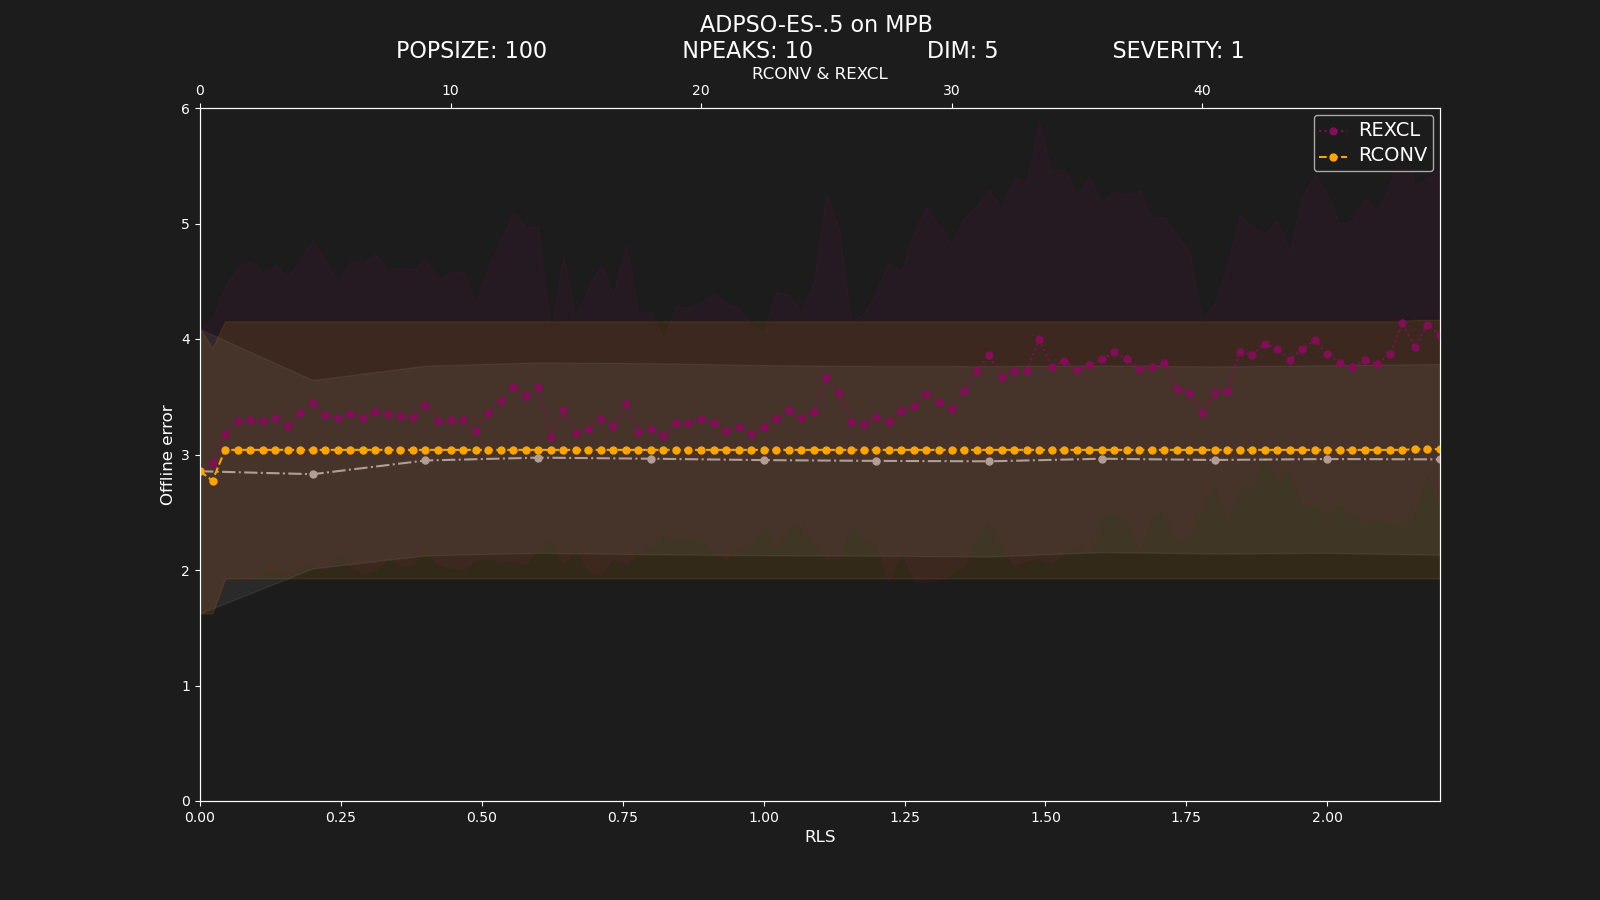
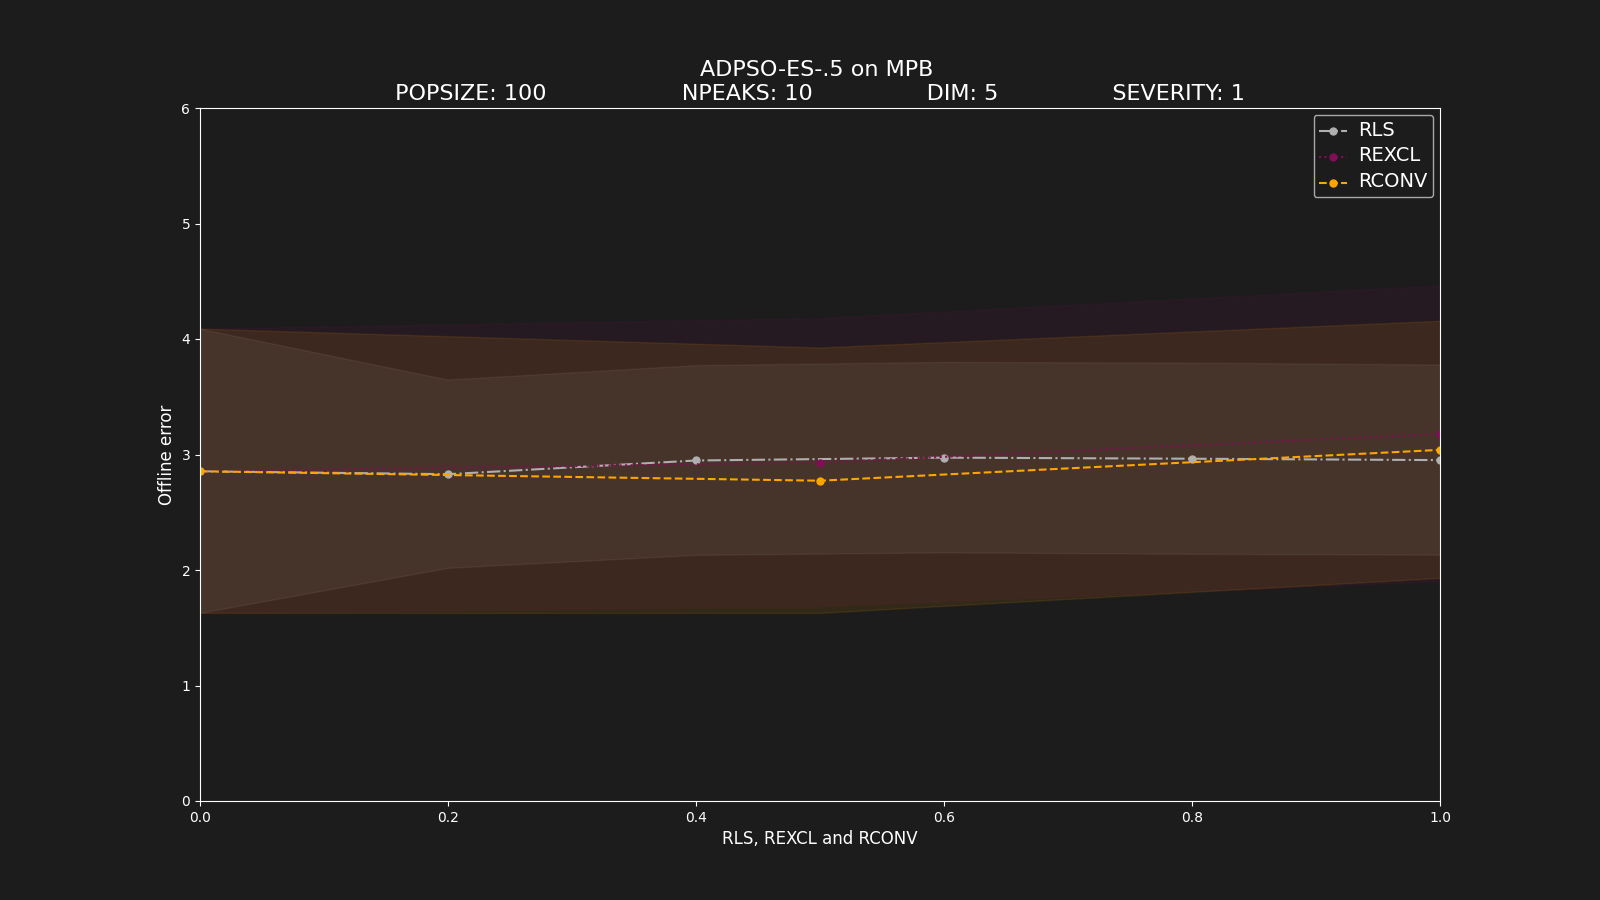
manual tests

diff --git a/codes/plot/parameters/parametersPlot.py b/codes/plot/parameters/parametersPlot.py
@@ -70,8 +70,10 @@ def plot(ax, data, label, fStd=0, color="orange", linestyle="-", parameters=Fals
         ax.set_ylim(bottom=parameters["YLIM"][0], top=parameters["YLIM"][1])
     else:
         ax.set_ylim(bottom=0)
-    ax.set_xlim(0, data.iloc[:, 0].iloc[-1])
-    plt.legend()
+    if(parameters["XLIM"]):
+        ax.set_xlim(left=parameters["XLIM"][0], right=parameters["XLIM"][1])
+    else:
+        ax.set_xlim(0, data.iloc[:, 0].iloc[-1])
     #plt.xscale("log")
     return ax
 
@@ -96,8 +98,8 @@ def showPlots(fig, ax, parameters, parameters2, path):
                 DIM: {parameters2['NDIM']}\
                 SEVERITY: {parameters2['MOVE_SEVERITY_MPB']} \
                 "
-    ax[0].set_title(title, fontsize=16)
-    ax[1].set_xlabel("RCONV & REXCL", fontsize=12)
+    ax.set_title(title, fontsize=16)
+    ax.set_xlabel("RLS, REXCL and RCONV", fontsize=12)
     if(parameters["NAME"]==0):
         plt.savefig(f"{path}/{parameters['ALGORITHM']}-{parameters['PARAMETER']}.png", format="png")
     else:
@@ -171,7 +173,6 @@ def main():
 
     THEME = parameters["THEME"]
     fig, ax = configPlot(parameters)
-    ax2 = ax.twiny()
     offlineError = list()
     stdOe = list()
 
@@ -191,22 +192,14 @@ def main():
 
     #zipped = list(zip(, offlineError, stdOe))
     for i, parameter in enumerate(PARA):
-        if i == 0:
             ax = plot(ax, data=df[i], \
                 label=parameter,
                 color=colors[i],
                 linestyle=lineStyles[i],
                 fStd=1,
                 parameters=parameters)
-        else:
-            ax2 = plot(ax2, data=df[i], \
-                label=parameter,
-                color=colors[i],
-                linestyle=lineStyles[i],
-                fStd=1,
-                parameters=parameters)
 
-    showPlots(fig, [ax, ax2], parameters, parameters2, path)
+    showPlots(fig, ax, parameters, parameters2, path)
 
 
 if __name__ == "__main__":
